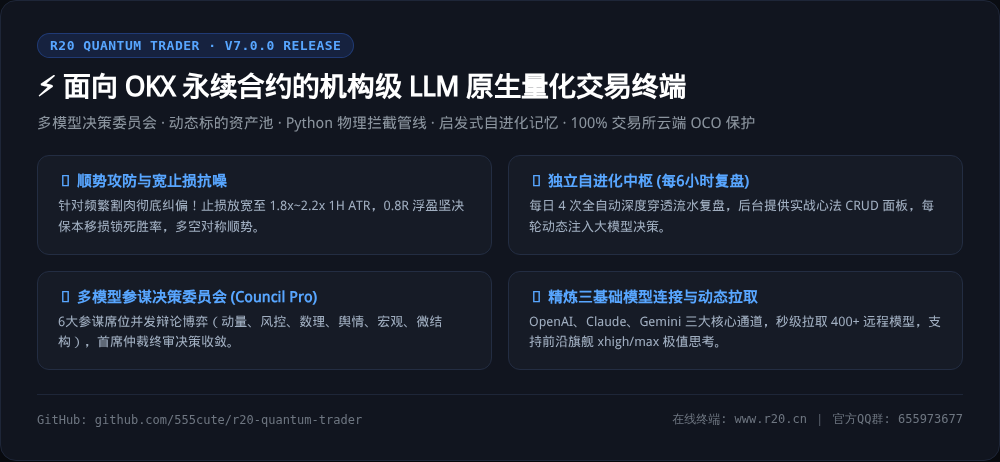
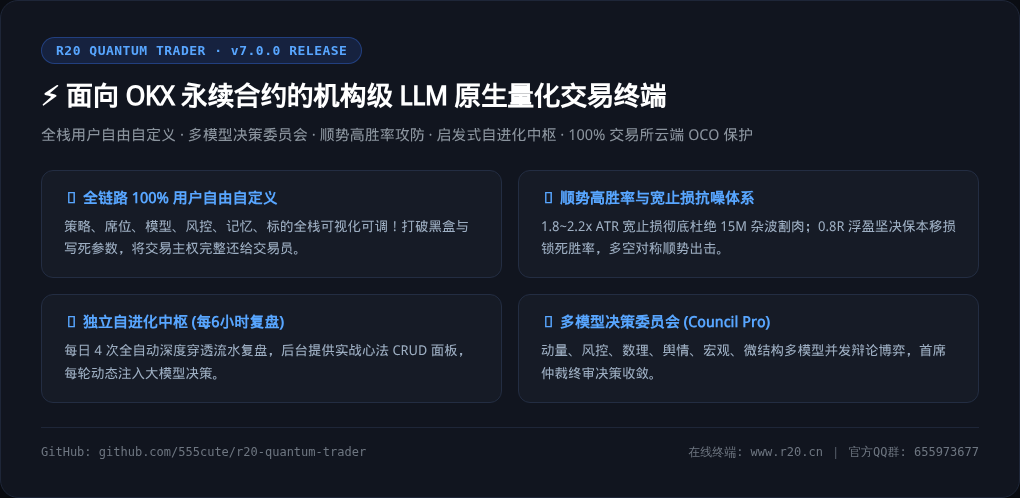
docs: 全面重构README与LINUX DO图文推广卡片，将全栈用户自定义自由度深度有机融入全景架构与各核心板块

diff --git a/README.md b/README.md
@@ -4,7 +4,7 @@
 
 ### 面向 OKX 永续合约的机构级 LLM 原生量化交易终端与多模型参谋系统
 
-**多模型决策委员会 · 全栈高度用户自定义 · 动态标的资产池 · Python 物理拦截管线 · 启发式自进化记忆 · 100% 交易所云端 OCO**
+**全栈用户自由自定义 · 多模型决策委员会 · 动态标的资产池 · Python 物理拦截管线 · 启发式自进化记忆 · 100% 交易所云端 OCO**
 
 [![Release](https://img.shields.io/badge/release-v7.0.0%20(Evolution%20%26%20Strategy%20Upgrade)-3875F6?style=flat-square)](https://github.com/555cute/r20-quantum-trader/releases/tag/v7.0.0)
 [![LINUX DO](https://img.shields.io/badge/Community-LINUX%20DO-F97316?style=flat-square&logo=linux&logoColor=white)](https://linux.do/)
@@ -31,71 +31,54 @@
 
 ---
 
-## 🎨 极致的「全栈用户自定义自由度」（User-Customizable First）
+## 🌟 系统核心特性 (v7.0.0 重大演进)
 
-传统量化软件往往是黑盒且参数写死的；而 R20 的设计哲学是**「将策略制定权、模型组合权、风控门禁权、记忆沉淀权 100% 交还给交易员」**。在 R20 中，整个交易系统从上至下均可在后台可视化自由定制与热插拔：
+传统量化软件往往是黑盒且逻辑写死的，而 R20 将「高胜率顺势算法」与「全链路用户自定义（User-Customizable First）」深度融为一体：
 
-```
-                    ┌────────────────────────────────────────────────────────┐
-                    │           R20 全链路 6 维「用户自定义」矩阵             │
-┌───────────────────┴────────────────────────────────────────────────────────┴───────────────────┐
-│ 1. 策略提示词自由编排 ───► 自定义 System/User 模板，自由插入变量插槽，JSON 方案一键导入/导出/分享  │
-│ 2. 模型委员会自由指派 ───► 自由增删 N 个参谋席位，自定义席位人设权重，动态指派不同供应商不同模型   │
-│ 3. 模型连接任意扩展   ───► 任意自定义供应商渠道，自定义 API 协议 (/chat /responses /messages)，拉取400+模型 │
-│ 4. 物理风控插件热插拔 ───► Python 原生编写拦截器，现场语法静态检查，支持真实决策沙箱回放回归测试  │
-│ 5. 自进化心法自由增删 ───► 后台可视化增删改查 (CRUD) 长期实战心法，自定义复盘模版，随时强制复盘   │
-│ 6. 标的池与风控自定义 ───► 自由动态增删监控币种，自定义杠杆上限、单笔保证金、ATR 止损乘数与止盈比例│
-└────────────────────────────────────────────────────────────────────────────────────────────────┘
-```
+### 1. 🧠 顺势高胜率提示词策略与 100% 自由编排工作室
+- **抗噪宽止损根治割肉**：历史本金从 4400 磨损至 3900 的根本病灶在于 15M 杂波插针！现止损强制外扩至结构外 **1.8x ~ 2.2x 1H ATR**（或 1.8%~3.0% 安全垫），宁可调降杠杆至 2x~3x，也给足波动呼吸空间，隔绝虚假洗盘。
+- **0.8R 浮盈保本移损（BE 锁死胜率）**：持仓浮盈一旦达 **0.8R ~ 1.0R**（或 ROI 达 +1.0%），无论多单还是空单，必须坚决触发 `UPDATE_SL` 移动至开仓成本保本位，最坏结果 0 亏损出场，彻底消灭“浮盈变亏损”。
+- **多空对称顺势主轴**：4H/1H 多头通道专注顺势回踩均线/支撑位低吸挂多，4H/1H 空头通道专注反弹承压阻力位逢高挂空，箱体震荡边界双向高抛低吸；置信度门禁优化至 75%，形态达标自信标定 78%~88%，破除机械空仓。
+- **全自由可视化编排（Prompt Studio）**：从底层解耦硬编码，前台可视化工作室自由编辑 **「交易 System」** 军规与 **「交易 User」** 行情拼装，内置变量插槽快速注入条（`{{macro_4h}}`、`{{calculus_1h}}`、`{{adx_1h}}` 等），支持 JSON 方案一键导入、导出与双模实时对照。
 
-1. **交易提示词方案 100% 自定义编排（Prompt Studio）**：
-   - 彻底解除策略硬编码！后台提供可视化的 **「提示词方案工作室」**，自由编辑 **「交易 System（军规纪律）」** 与 **「交易 User（行情数据拼装）」**。
-   - 内置强大的 **语义插槽工具条（`{{macro_4h}}`、`{{calculus_1h}}`、`{{adx_1h}}` 等）**，点击即可秒级插入任意量化特征。
-   - 支持将整套提示词方案一键导出为标准 JSON 格式，方便在社区、团队间分发分享或一键导入回滚。
-2. **多模型参谋委员会 100% 自由定义（Council Pro）**：
-   - 席位完全动态化：自由增加、删除或重命名参谋席位（如自定义「斐波那契波浪官」、「资金费率套利官」）。
-   - 席位人设与模型解耦：每个席位可自由指派挂载任意供应商的任意大模型（如风控席位挂载 Claude 3.7，进攻席位挂载 o3-mini，量化席位挂载 DeepSeek-R1）。
-   - 推演深度自定义：各席位自动继承专有的思考深度（`high`/`medium`/`low`，旗舰模型自适应 `xhigh`/`max`）。
-3. **模型供应商渠道 100% 自由接入（LLM Connections）**：
-   - 拒绝写死供应商：除内置的 OpenAI、Claude、Gemini 三大核心渠道外，支持任意自定义添加第三方或自建聚合 API（OneAPI、NewAPI、SiliconFlow 等）。
-   - 真实通信协议自由切换：自由选择 `OpenAI Chat (/chat/completions)`、`OpenAI Responses (/responses)` 或 `Claude Messages (/messages)` 真实协议。
-   - 动态一键探测拉取：免输入二次密钥，秒级探测并拉取远端 400+ 模型列表，自由勾选入库。
-4. **Python 原生物理拦截插件 100% 自由热插拔（Safety Interceptors）**：
-   - 执行层防线不封顶：风控规则采用标准 Python 插件协议（`check_risk(package, decision, context) -> tuple[bool, str]`），自由编写存入 `plugins/interceptors/` 即可秒级热加载生效。
-   - 后台可视化调试沙箱：在线直接编写代码、一键 AST 语法静态检查，并可直接载入最近推演决策回放执行并生成审计报告。
-5. **AI 自进化认知心法 100% 自由干预（Evolution CRUD）**：
-   - 打破传统 AI“自动复盘提炼不可见不可控”的弊端：后台上线 **实战心法管理看板**，系统每 6 小时提炼出的长期心法直接列表化展现。
-   - 管理员可随时在线 **一键新增自研心法**，或 **一键删除失效规则**；心法实时保存并动态注入下一轮交易主脑的 System Prompt。
-   - 自进化复盘官 System 模版与战绩证据 User 模版均可在后台自由定制与保存。
-6. **交易标的池与风控参数 100% 自由配置（Universe & Risk）**：
-   - 标的池自适应：自由动态增删监控币种（如增删 BTC、ETH、SOL、DOGE、SUI、ASTER 等），因果微结构雷达与舆情采集团队自动全链路自适应接入。
-   - 风控几何自由调参：单笔最大保证金、杠杆上限、日内最大回撤限制、ATR 宽止损倍数、浮盈保本移损触发阈值均在配置中心即时生效。
+### 2. 🧬 独立的 AI 自进化认知中枢与心法自由干预
+- **每 6 小时自动穿透复盘**：从提示词策略中完整剥离为专属的「自进化配置」模块！复盘频次由每日 1 次全面提升至**每日 4 次（每 6 小时：02:00、08:00、14:00、20:00）全自动穿透复盘**，快速感知市场节奏演变。
+- **实战心法 CRUD 后台管理**：打破 AI 自进化黑盒，提炼的心法直接列表化展现；管理员可在后台随时**一键新增心得经验**，或**单条剔除失效规则**；心法落盘（`data/AI_TRADING_MEMORY.md`）并实时动态注入下一轮交易主脑 System Prompt。
+- **复盘模版自定义与强制触发**：复盘官 System 角色定位与战绩证据 User 模版均可在线自由定制；遭遇突发单边行情时支持一键强制执行复盘总结。
+
+### 3. 🛡 Python 原生物理拦截插件管线与沙箱热插拔
+- **Fail-Closed 物理硬阻断防线**：任何大模型推演决策必须穿透物理拦截链，任一插件返回 REJECT 立即安全降级为 WAIT。内置 4H 顺势铁律（逆势一票否决）、单笔风险收益比 $R:R \ge 2.0$ 几何门禁、75% 置信度基准、ADX 震荡猴市过滤。
+- **插件热插拔与现场沙箱**：基于标准 Python 插件协议（`check_risk(package, decision, context) -> tuple[bool, str]`），无需重启服务即可热加载生效；后台提供代码在线编辑、AST 静态语法校验，支持载入最近真实推演决策现场沙箱回放。
+
+### 4. 🏛 多模型决策委员会（Council Pro · 席位自由指派）
+- **多参谋并发辩论与博弈**：告别单一模型幻觉！支持 6 大参谋席位并发推演（动量进攻官、极端风控官、量化数理官、舆情侦察官、宏观策略官、盘口微结构官），由首席终审官权威裁决收敛。
+- **席位人设与模型完全解耦**：管理员可自由增删、重命名席位，自由将任意供应商的大模型指派给特定席位（如风控席位指派 Claude 3.7，进攻席位指派 o3-mini，量化席位指派 DeepSeek-R1）；各席位自动继承专有的思考推演深度。
+
+### 5. 🔌 精炼三基础渠道与开放模型连接矩阵
+- **极简三渠道 + 任意自定义扩展**：移除冗余死板预设，仅保留 OpenAI、Claude、Gemini 三大核心通道，支持自由添加任意第三方或自建聚合 API（OneAPI、NewAPI、SiliconFlow 等）。
+- **动态模型探测与协议自由解耦**：免二次密钥输入，自动继承已存凭据秒级拉取远程 400+ 模型；API 通信协议支持自由切换（OpenAI Chat / OpenAI Responses / Claude Messages）；针对前沿旗舰模型自适应开放 xhigh / max 极限推演。
+
+### 6. 💾 企业级备份、下载与一键全量恢复
+- **本地打包下载与外部包上传**：支持本地/云端全量数据灾备，后台归档列表支持一键流式打包下载 `.tar.gz` 至个人电脑，并支持上传外部备份压缩包。
+- **一键全量恢复与安全回滚**：输入二次安全确认码即可一键全量解压恢复系统配置、历史数据与策略方案，内置严格的路径遍历（Path Traversal）安全审计防护。
+
+### 7. 🖥 Web 大屏自适应与无缓存直连
+- **宽屏 6 列横向平整铺满**：大屏默认升级为标准自适应流线排版（`stacked`），资产微结构雷达在宽屏与超宽屏下自适应扩展为 6 列铺满，彻底根治卡片偏居右侧的违和感。
+- **入口无缓存协议直连**：根除本地强缓存与数据脏读，API 轮询注入动态时间戳防穿透，秒级感知实盘变化。
 
 ---
 
-## 🌟 系统核心亮点 (v7.0.0 全面升级)
+## 📸 核心系统界面全景
 
-- 🧠 **全新高胜率多空对称提示词策略**：针对历史频繁割肉彻底纠偏！重塑 1.8x~2.2x 1H ATR 宽容抗噪止损，宁可降杠杆也杜绝 15M 杂波扫损；植入 **0.8R 浮盈保本移损（BE）锁死机制**，杜绝盈利单回吐成亏损；顺势回踩低吸做多与反弹承压高抛做空对称执行，破除无序空仓，自信激发开单欲望。
-- 🧬 **自进化系统独立化与 6 小时高速复盘**：从提示词策略中完整拆分出独立的「自进化配置」模块！复盘频次由每日 1 次全面提升至**每日 4 次（每 6 小时：02:00、08:00、14:00、20:00）全自动穿透复盘**；后台支持对启发式实战心法记忆进行增删查改（CRUD），实时动态注入推演 System Prompt。
-- 🛡 **Python 原生物理拦截插件管线（Fail-Closed Hard Risk Interceptors）**：执行层绝对物理防线！4H 顺势铁律（逆势强制否决）、单笔风险几何 $R:R \ge 2.0$ 强校验、75% 置信度基准门禁、震荡市 ADX 过滤；支持自定义 Python 插件热插拔、AST 语法静态校验与现场沙箱回归回放。
-- 🏛 **多模型参谋决策委员会（Council Pro）**：告别单一模型决策幻觉！支持 N 席位多模型并发辩论博弈（动量进攻官、极端风控官、量化数理官、舆情侦察官、宏观策略官、盘口微结构官），支持全动态席位指派、继承各模型专属思考推演强度，由首席终审官收敛输出。
-- 🔌 **精炼三基础模型连接与动态模型探测**：精简去除冗余预设，仅保留 OpenAI、Claude、Gemini 三大基础渠道，支持任意自定义供应商扩充；支持免二次密钥输入秒级动态拉取供应商 400+ 远程模型；思考推演强度（`high`/`medium`/`low`，及 gpt-6 自适应 `xhigh`/`max`）收敛至模型实体。
-- 💾 **企业级备份、下载与一键全量安全恢复**：备份系统全面重构！支持本地/云端全量数据灾备；支持后台一键打包流式下载 `.tar.gz` 归档文件；支持上传本地外部备份压缩包；支持输入二次安全确认码一键全量恢复还原历史数据与策略，内置严密的路径穿越防御。
-- 🖥 **宽屏显示器自适应排版优化**：彻底修复宽屏下卡片悬浮错位，大屏主页重塑为标准全景流线布局（`stacked`），资产动力学雷达自适应 6 列横向自然铺满，沉浸平整；根治前端与 API 本地强缓存残留，实现秒级热更新。
+### 1. ⌘ 提示词策略工作室（Prompt Studio · 100% 自由编排）
+*聚焦交易主脑核心管线！专注于「交易 System 规则纪律」与「交易 User 实时行情快照拼装」；内置语义插槽工具条与变量字典手册，支持将策略一键导出为 JSON 分享或导入社区策略包；右侧提供「实发效果」与「模板源码」毫秒级双模对照。*
 
----
-
-## 📸 核心功能界面一览
-
-### 1. ⌘ 提示词策略方案工作室（Prompt Studio · 100% 自定义）
-*聚焦交易主脑核心管线！自进化部分拆离后更加专注纯粹，专注于「交易 System 规则纪律」与「交易 User 实时行情快照拼装」；内置变量快速插入条与变量字典手册，支持将策略一键导出为 JSON 分享或导入社区策略包；右侧提供「实发效果」与「模板源码」毫秒级双模对照。*
-
-![提示词策略方案工作室](https://raw.githubusercontent.com/555cute/r20-quantum-trader/main/docs/images/admin_prompt_studio.png)
+![提示词策略工作室](https://raw.githubusercontent.com/555cute/r20-quantum-trader/main/docs/images/admin_prompt_studio.png)
 
 ---
 
 ### 2. 🧬 独立的 AI 自进化认知中枢（Evolution Engine · 心法自由干预）
-*从提示词策略中完整剥离成独立的「自进化配置」中枢。涵盖复盘官 System 角色定位、战绩证据 User 模版；直观监控每 6 小时（每日 4 次）自动复盘计划；内置实战长期心法记忆库，支持管理员直接在后台一键新增心得、删除无效规则，并提供「强制立即复盘」即时提炼。*
+*涵盖复盘官 System 角色定位、战绩证据 User 模版；直观监控每 6 小时（每日 4 次）自动复盘计划；内置实战长期心法记忆库，支持管理员直接在后台一键新增心得、删除无效规则，并提供「强制立即复盘」即时提炼。*
 
 ![自进化配置与实战心法面板](https://raw.githubusercontent.com/555cute/r20-quantum-trader/main/docs/images/admin_evolution.png)
 
@@ -109,14 +92,14 @@
 ---
 
 ### 4. 🏛 多模型决策委员会（Council Pro · 席位自由指派）
-*支持多参谋多线程并发辩论博弈：**动量进攻官**（寻找 Alpha 突破）、**保守风控官**（量价背离与一票否决权）、**量化数理官**（ADX/微积分纯数学门禁）、**舆情侦察官**、**宏观策略官**与**盘口微结构官**各司其职，最终由**首席终审仲裁官**权衡收口。支持席位动态增删、全量动态模型自由绑定与思考深度自动继承。*
+*多参谋多线程并发辩论博弈：动量进攻、保守风控、量化数理、舆情侦察、宏观策略与盘口微结构各司其职，最终由首席终审仲裁官权衡收口。支持席位动态增删、全量动态模型自由绑定与思考深度自动继承。*
 
 ![多模型委员会决策系统](https://raw.githubusercontent.com/555cute/r20-quantum-trader/main/docs/images/admin_council.png)
 
 ---
 
 ### 5. 🔌 模型连接与供应商矩阵（LLM Connections · 自由扩展渠道）
-*极简且强大的模型接入体系：仅保留 OpenAI、Claude、Gemini 三大基础渠道，支持任意自定义供应商扩展；采用真实 API 通信协议下拉矩阵（OpenAI Chat / Responses / Claude Messages 等）；自动继承已存凭据秒级拉取远程 400+ 模型；针对前沿旗舰模型自适应开放 xhigh / max 极限推演。*
+*极简且强大的模型接入体系：仅保留 OpenAI、Claude、Gemini 三大基础渠道，支持任意自定义供应商扩展；采用真实 API 通信协议下拉矩阵；自动继承已存凭据秒级拉取远程 400+ 模型；针对前沿旗舰模型自适应开放 xhigh / max 极限推演。*
 
 ![模型连接与供应商矩阵](https://raw.githubusercontent.com/555cute/r20-quantum-trader/main/docs/images/admin_llm.png)
 
@@ -141,13 +124,13 @@
 │  • 因果动力学速度/加速度/加加速度 (v, a, j) + 定积分能量储备 (E, A)       │
 │  • 经典量化五大因子库：OBV 资金流向 / VWAP 乖离率 / ATR(14) / RSI / ADX  │
 ├────────────────────────────────────────────────────────────────────────┤
-│ 【智能决策中枢】(高度自由自定义编排)                                    │
+│ 【智能决策中枢】(100% 用户自由编排与多模型参谋)                        │
 │  • 提示词策略：多空对称顺势 + 1.8~2.2x ATR 抗噪宽止损 + 0.8R 浮盈保本移损 │
 │  • 模型委员会：N 参谋席位自由增删 + 跨厂商模型自由绑定 + 首席仲裁统一收口 │
 │  • 自进化认知：每 6 小时自动复盘 (02:00/08:00/14:00/20:00) + 心法自由CRUD │
 │  • 供应商网关：OpenAI / Gemini / Claude 核心渠道 + 任意自定义扩展通道   │
 ├────────────────────────────────────────────────────────────────────────┤
-│ 【执行与风控防线】(Fail-Closed 物理硬阻断 + 插件热插拔)                 │
+│ 【执行与风控防线】(Fail-Closed 物理硬阻断 + 插件自由热插拔)             │
 │  • 物理拦截管线：4H顺势铁律 / 75%置信度门禁 / ADX震荡熔断 / 2.0R几何保护 │
 │  • 交易执行层：Maker 限价挂单入场 + 动态撤重挂 + 100% 交易所云端 OCO   │
 │  • 灾备与恢复：备份包本地打包下载 / 外部归档上传 / 一键安全全量恢复     │
